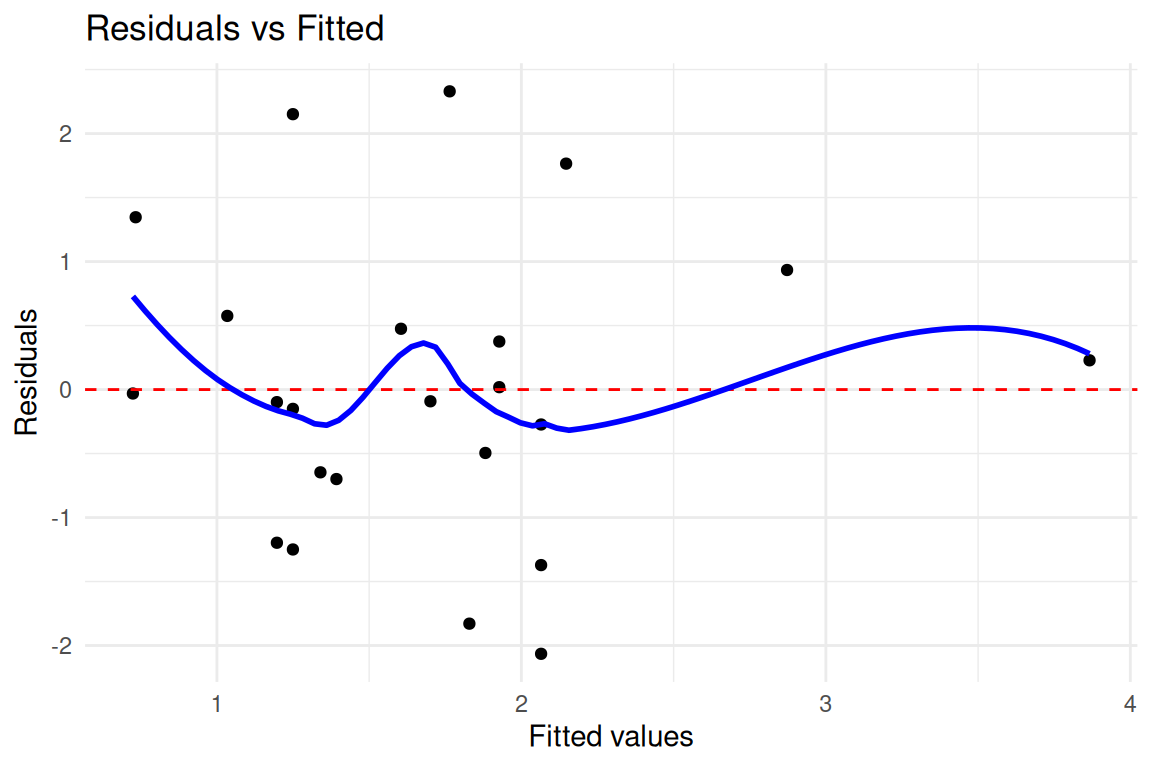
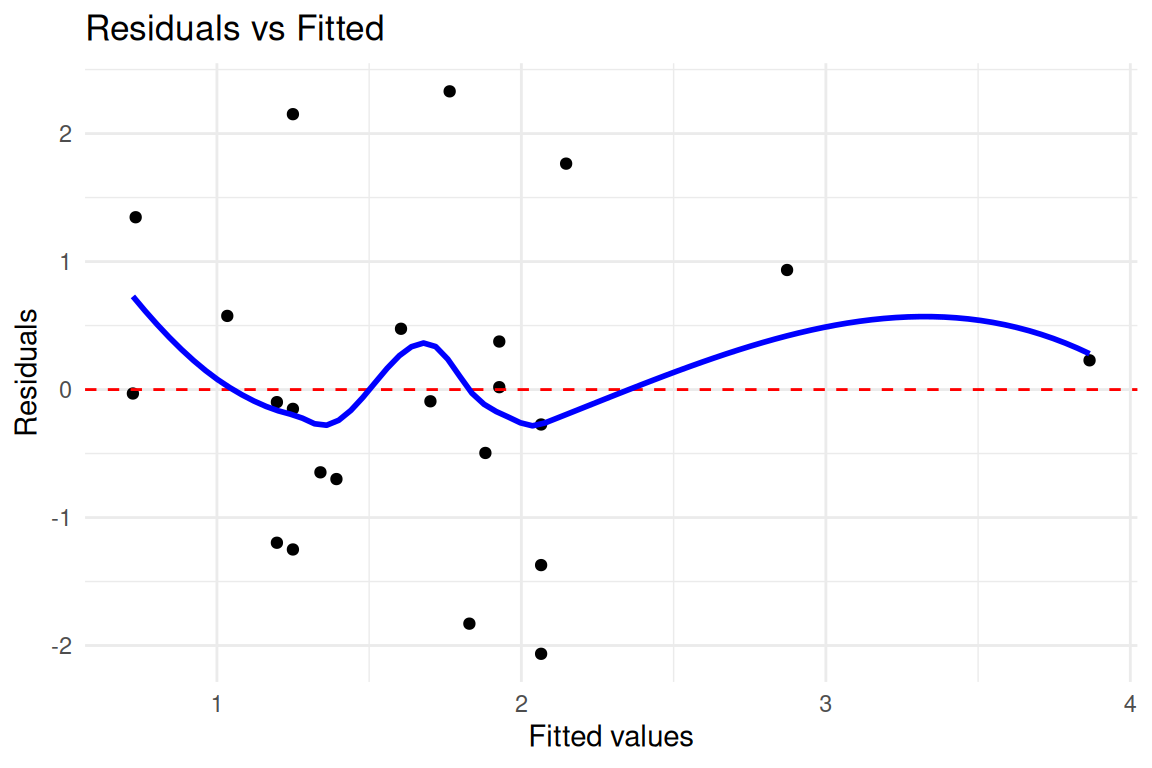
Deploy preview for PR 19 🛫

Changed region(s): [[0.4688, 0.4062, 0.9062, 0.5625], [0.375, 0.4375, 0.4062, 0.5], [0.9062, 0.4375, 0.9375, 0.4688]]

diff --git a/pr-preview/pr-19/man/needle_sharing.html b/pr-preview/pr-19/man/needle_sharing.html
@@ -841,7 +841,7 @@ ul.task-list li input[type="checkbox"] {
 <h2 class="unnumbered anchored" data-anchor-id="needle-sharing-data">Needle sharing data</h2>
 <section id="description" class="level3">
 <h3 class="anchored" data-anchor-id="description">Description</h3>
-<p>The risky-drug-use (needle-sharing) example dataset from Chapter 8 of <em>Regression Methods in Biostatistics</em> (2nd edition), distributed on the <a href="https://regression.ucsf.edu/second-edition/data-examples-and-problems">UCSF companion website</a>. As distributed, the data are one row per participant (n = 128); the original study is not documented in the textbook or the companion materials, so no primary article or study design is cited here. One possible (though unconfirmed) source is Tsui et al.&nbsp;(2009), <a href="https://doi.org/10.1016/j.drugalcdep.2009.05.022">doi:10.1016/j.drugalcdep.2009.05.022</a> – a study of injection drug users in San Francisco co-authored by RMB author E. Vittinghoff. The match is uncertain because this dataset lacks an HCV variable (Tsui et al.&nbsp;studied HCV seroconversion) and its mean participant age (~40) is older than that paper’s young-IDU cohort.</p>
+<p>The risky-drug-use (needle-sharing) example dataset from Chapter 8 of <em>Regression Methods in Biostatistics</em> (2nd edition), distributed on the <a href="https://regression.ucsf.edu/second-edition/data-examples-and-problems">UCSF companion website</a>. As distributed, the data are one row per participant (n = 128); the original study is not documented in the textbook or the companion materials, so no primary article or study design is cited here. One possible (though unconfirmed) source is Tsui et al.&nbsp;(2009), <a href="https://doi.org/10.1016/j.drugalcdep.2009.05.022">doi:10.1016/j.drugalcdep.2009.05.022</a> — a study of injection drug users in San Francisco co-authored by RMB author E. Vittinghoff. The match is uncertain because this dataset lacks an HCV variable (Tsui et al.&nbsp;studied HCV seroconversion) and its mean participant age (~40) is older than that paper’s young-IDU cohort.</p>
 </section>
 <section id="usage" class="level3">
 <h3 class="anchored" data-anchor-id="usage">Usage</h3>
